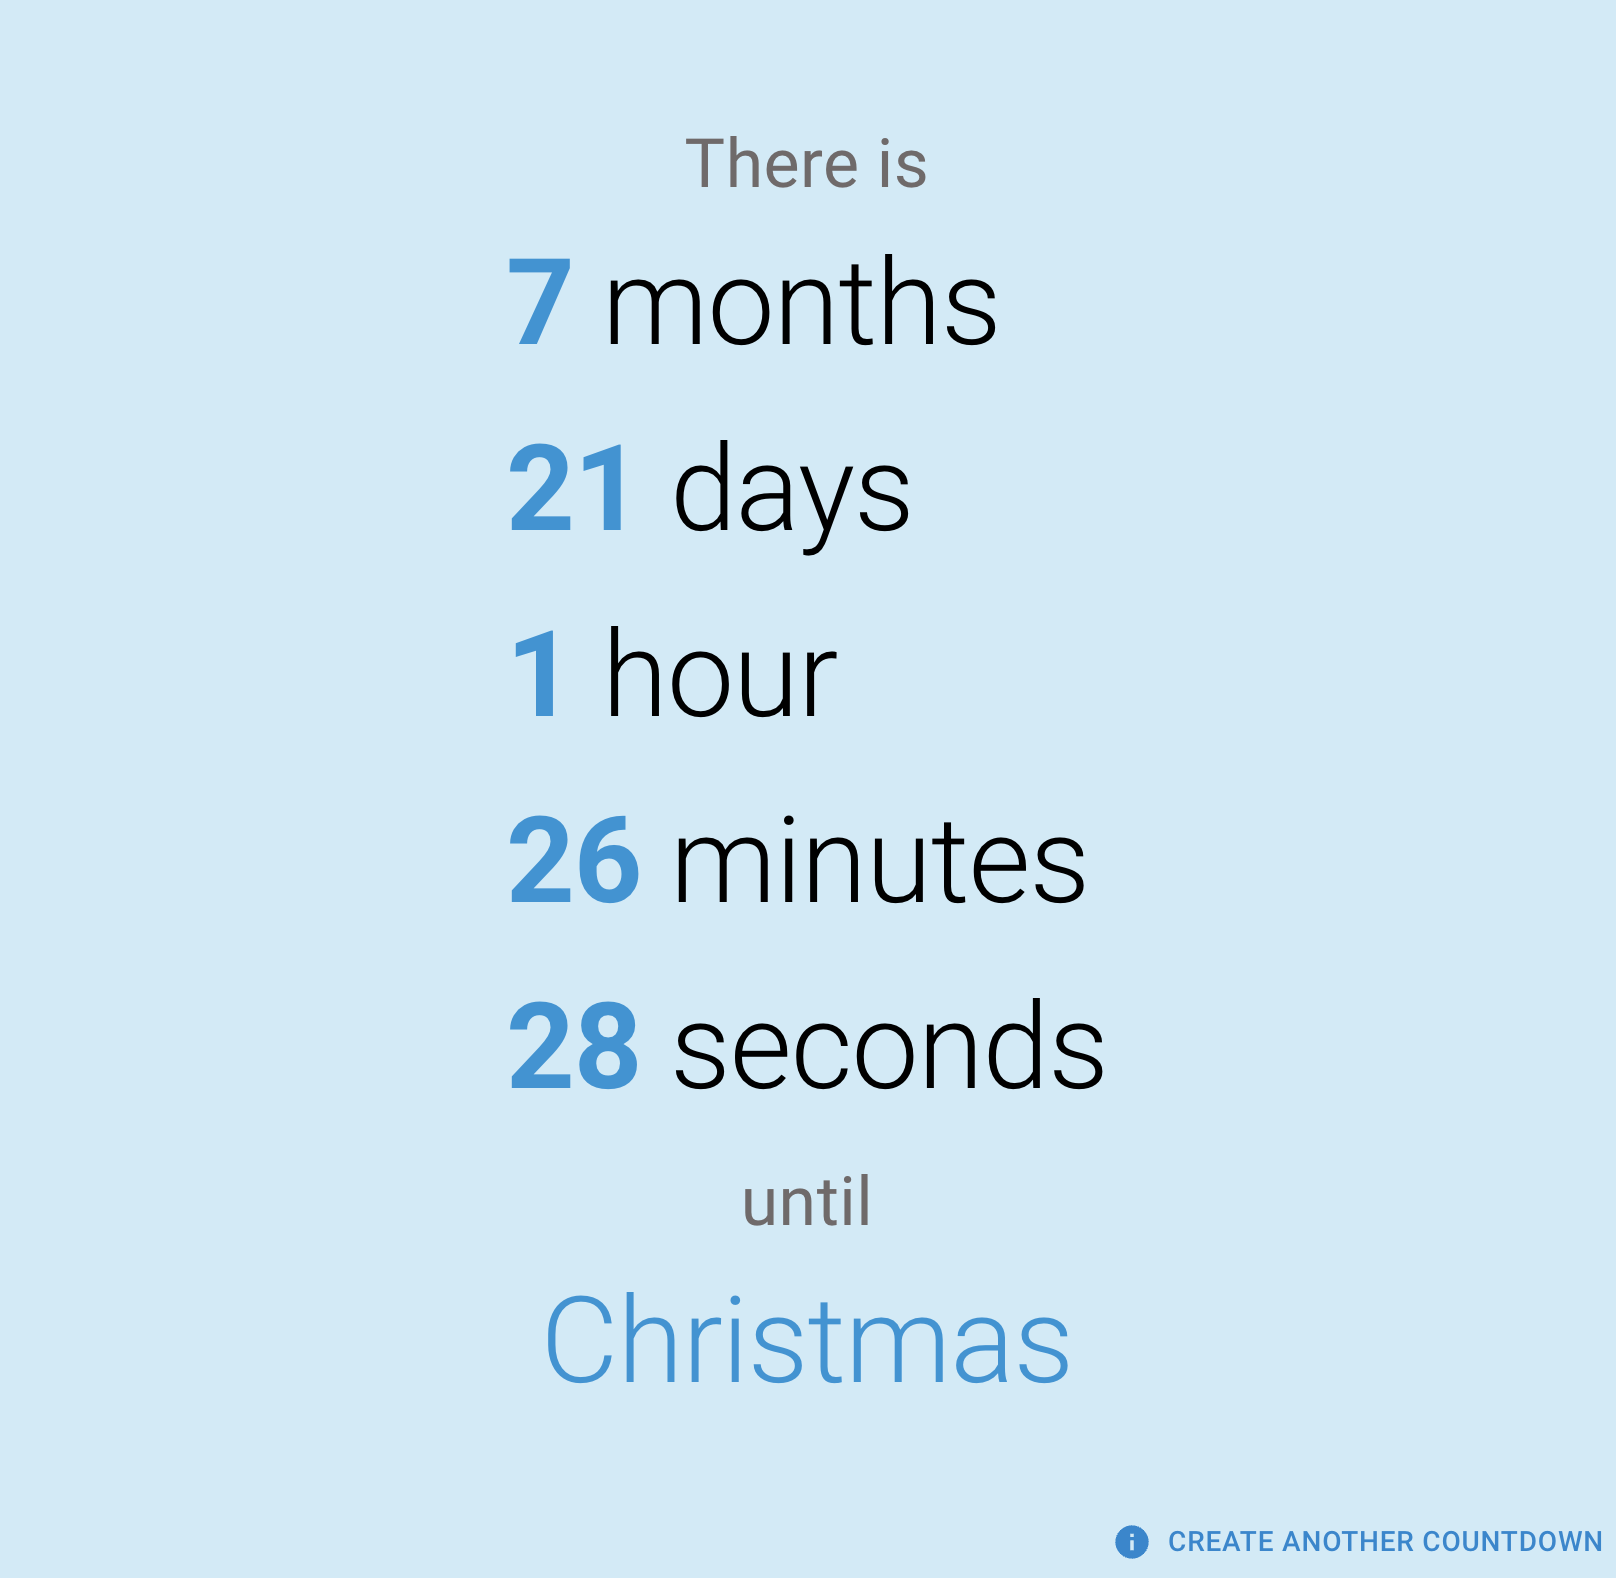
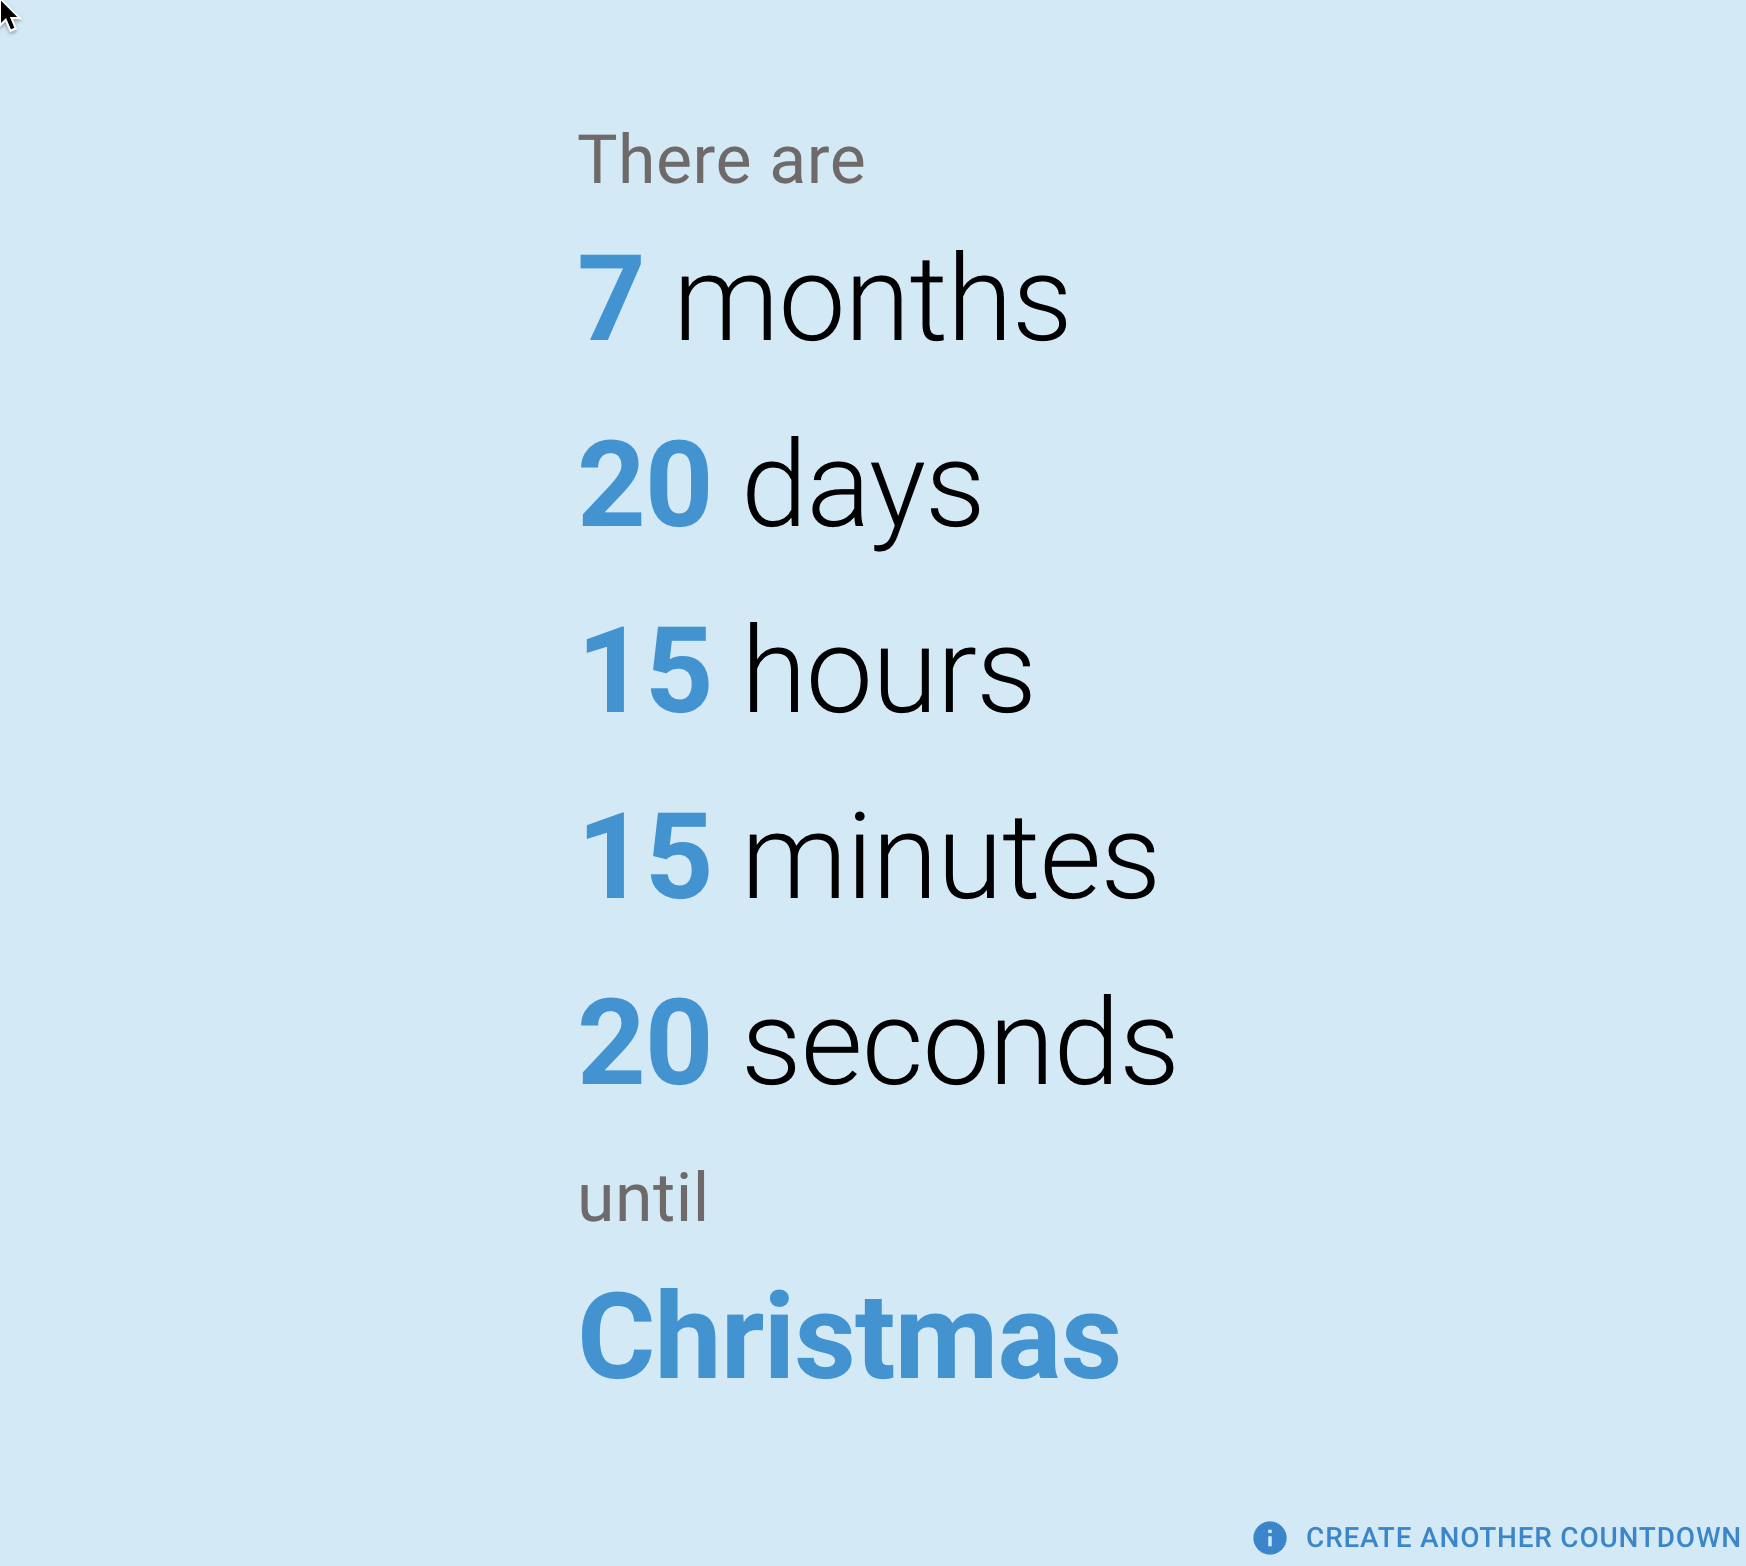
fix: bug fix with invalid, and updated design.

diff --git a/src/components/Countdown/Countdown.component.tsx b/src/components/Countdown/Countdown.component.tsx
@@ -40,11 +40,10 @@ const CountdownTimer: React.FC<CountdownTimerProps> = ({targetDate}) => {
             const hoursLeft = Math.floor(minutesLeft / MINUTES_IN_HOUR);
             const daysLeft = Math.floor(hoursLeft / HOURS_IN_DAY);
             const monthsLeft = Math.floor(daysLeft / DAYS_IN_MONTH);
-
             const yearsLeft = Math.floor(monthsLeft / 12);
             const remainingMonths = monthsLeft % 12;
 
-              timeLeft = {
+            timeLeft = {
                 years: yearsLeft,
                 months: remainingMonths,
                 days: daysLeft % DAYS_IN_MONTH,
@@ -67,8 +66,13 @@ const CountdownTimer: React.FC<CountdownTimerProps> = ({targetDate}) => {
 
     const {days, hours, minutes, seconds, months, years} = timeLeft;
 
+    const prefixText = (timeLeft.years === 1 || timeLeft.months === 1 || timeLeft.days === 1 || timeLeft.hours === 1 || timeLeft.minutes === 1 || timeLeft.seconds === 1) ? "There is" : "There are";
     return (
-        <div className="countdown-container">
+        <>
+            <Typography variant="h4" gutterBottom className={'dull-text'}>
+                {prefixText}
+            </Typography>
+
             {years > 0 && (
                 <Typography variant="h2" gutterBottom>
                     <span className={'countdown-value'}>{years}</span> {years > 1 ? "years" : "year"}
@@ -97,7 +101,7 @@ const CountdownTimer: React.FC<CountdownTimerProps> = ({targetDate}) => {
             <Typography variant="h2" gutterBottom>
                 <span className={'countdown-value'}>{seconds}</span> {seconds > 1 ? "seconds" : "second"}
             </Typography>
-        </div>
+        </>
     );
 };
 

diff --git a/src/views/Until/Until.component.tsx b/src/views/Until/Until.component.tsx
@@ -22,6 +22,7 @@ const Until = () => {
             if (occasion) {
                 setCountdownOccasion(occasion)
             }
+            document.title = `How Long Until ${occasion ? occasion : dayjs(datetime).format('LLL')}`
         }
     }, [])
 
@@ -30,22 +31,18 @@ const Until = () => {
             {countdownTime && (
                 <>
                     <div className="until-container">
-                        <Typography variant="h4" gutterBottom className={'dull-text'}>
-                            There is
-                        </Typography>
-
+                        <div>
                         <Countdown targetDate={countdownTime}/>
 
                         <Typography variant="h4" gutterBottom className={'dull-text'}>
                             until
                         </Typography>
 
-
                         <Typography variant="h2" gutterBottom className={'occasion-value'}>
                             {toTitleCase(countdownOccasion ? countdownOccasion : dayjs(countdownTime).format('LLL'))}
                         </Typography>
 
-
+                        </div>
                     </div>
                     <div className='create-own-button'>
                         <Button variant="text" color={"info"} startIcon={<InfoIcon/>} href={routes.HOME}

diff --git a/src/views/Home/Home.component.tsx b/src/views/Home/Home.component.tsx
@@ -28,7 +28,7 @@ const Home = () => {
 
     useEffect(() => {
         const params = new URLSearchParams();
-        if (datetime?.toISOString() && isDateInFuture(datetime)) {
+        if (datetime?.isValid() && datetime?.toISOString() && isDateInFuture(datetime)) {
             params.append("datetime", datetime?.toISOString())
             if (occasion) {
                 params.append("occasion", occasion)

diff --git a/src/views/Until/Until.scss b/src/views/Until/Until.scss
@@ -9,7 +9,6 @@
   justify-content: center;
   align-items: center;
   padding: 20px;
-  text-align: left;
 }
 
 .create-own-button {
@@ -20,7 +19,7 @@
 
 .occasion-value {
   color: $secondary-color;
-  font-weight: bolder;
+  font-weight: bold !important;
 }
 
 

diff --git a/src/components/Countdown/Countdown.scss b/src/components/Countdown/Countdown.scss
@@ -1,10 +1,5 @@
 @import '../../styles/variables.scss';
 
-
-.countdown-container {
-  text-align: left;
-  //margin-left: 2rem;
-}
 .countdown-value {
   color: $secondary-color;
   font-weight: bold;

diff --git a/README.md b/README.md
@@ -3,14 +3,15 @@
 ## Description
 
 This web app lets you easily create URLs with a date/time and an optional occasion which will direct to a countdown
-timer. It's simple, operates without a backend, and is aesthetically beautiful - perfect for sharing and bookmarking. While there
+timer. It's simple, minimal, and aesthetically beautiful - perfect for sharing and bookmarking. While there
 are similar websites, they seemed to be overly complicated to create, looked visually crowded, or not mobile friendly, so I decided to make my own. 
 
-## Development
+It is currently deployed at [how-long.netlify.app](https://how-long.netlify.app/).
 
+## Development
 ### Getting Started
 
-This is built using `create-react-app` and `typescript` so to run locally, simply run:
+This is built using `create-react-app` and `typescript`, so to get started, simply run:
 
 ```zsh
 npm start
@@ -20,14 +21,15 @@ npm start
 
 #### Home
 `/` - The home page:
-![Home Page](./docs/home.png)
-![Home Page](./docs/help.png)
+<img src="./docs/home.png" width="400px">
+<img src="./docs/help.png" width="400px">
 Contains a form to create a new countdown timer. There is a help button which will display a modal with instructions on how to use the app.
 
 #### Until 
-`/until?date={date}&occasion={occasion}` - The countdown timer page:
+`/until?datetime={datetime}&occasion={occasion}` - The countdown timer page:
 
-![Countdown Timer](./docs/until.png)
+<img src="./docs/until.png" width="400px">
+
 This page will display a countdown timer until the specified date and time. The date and time are required query parameters. The occasion is optional, and will be displayed below the countdown timer (if provided).
 
 
